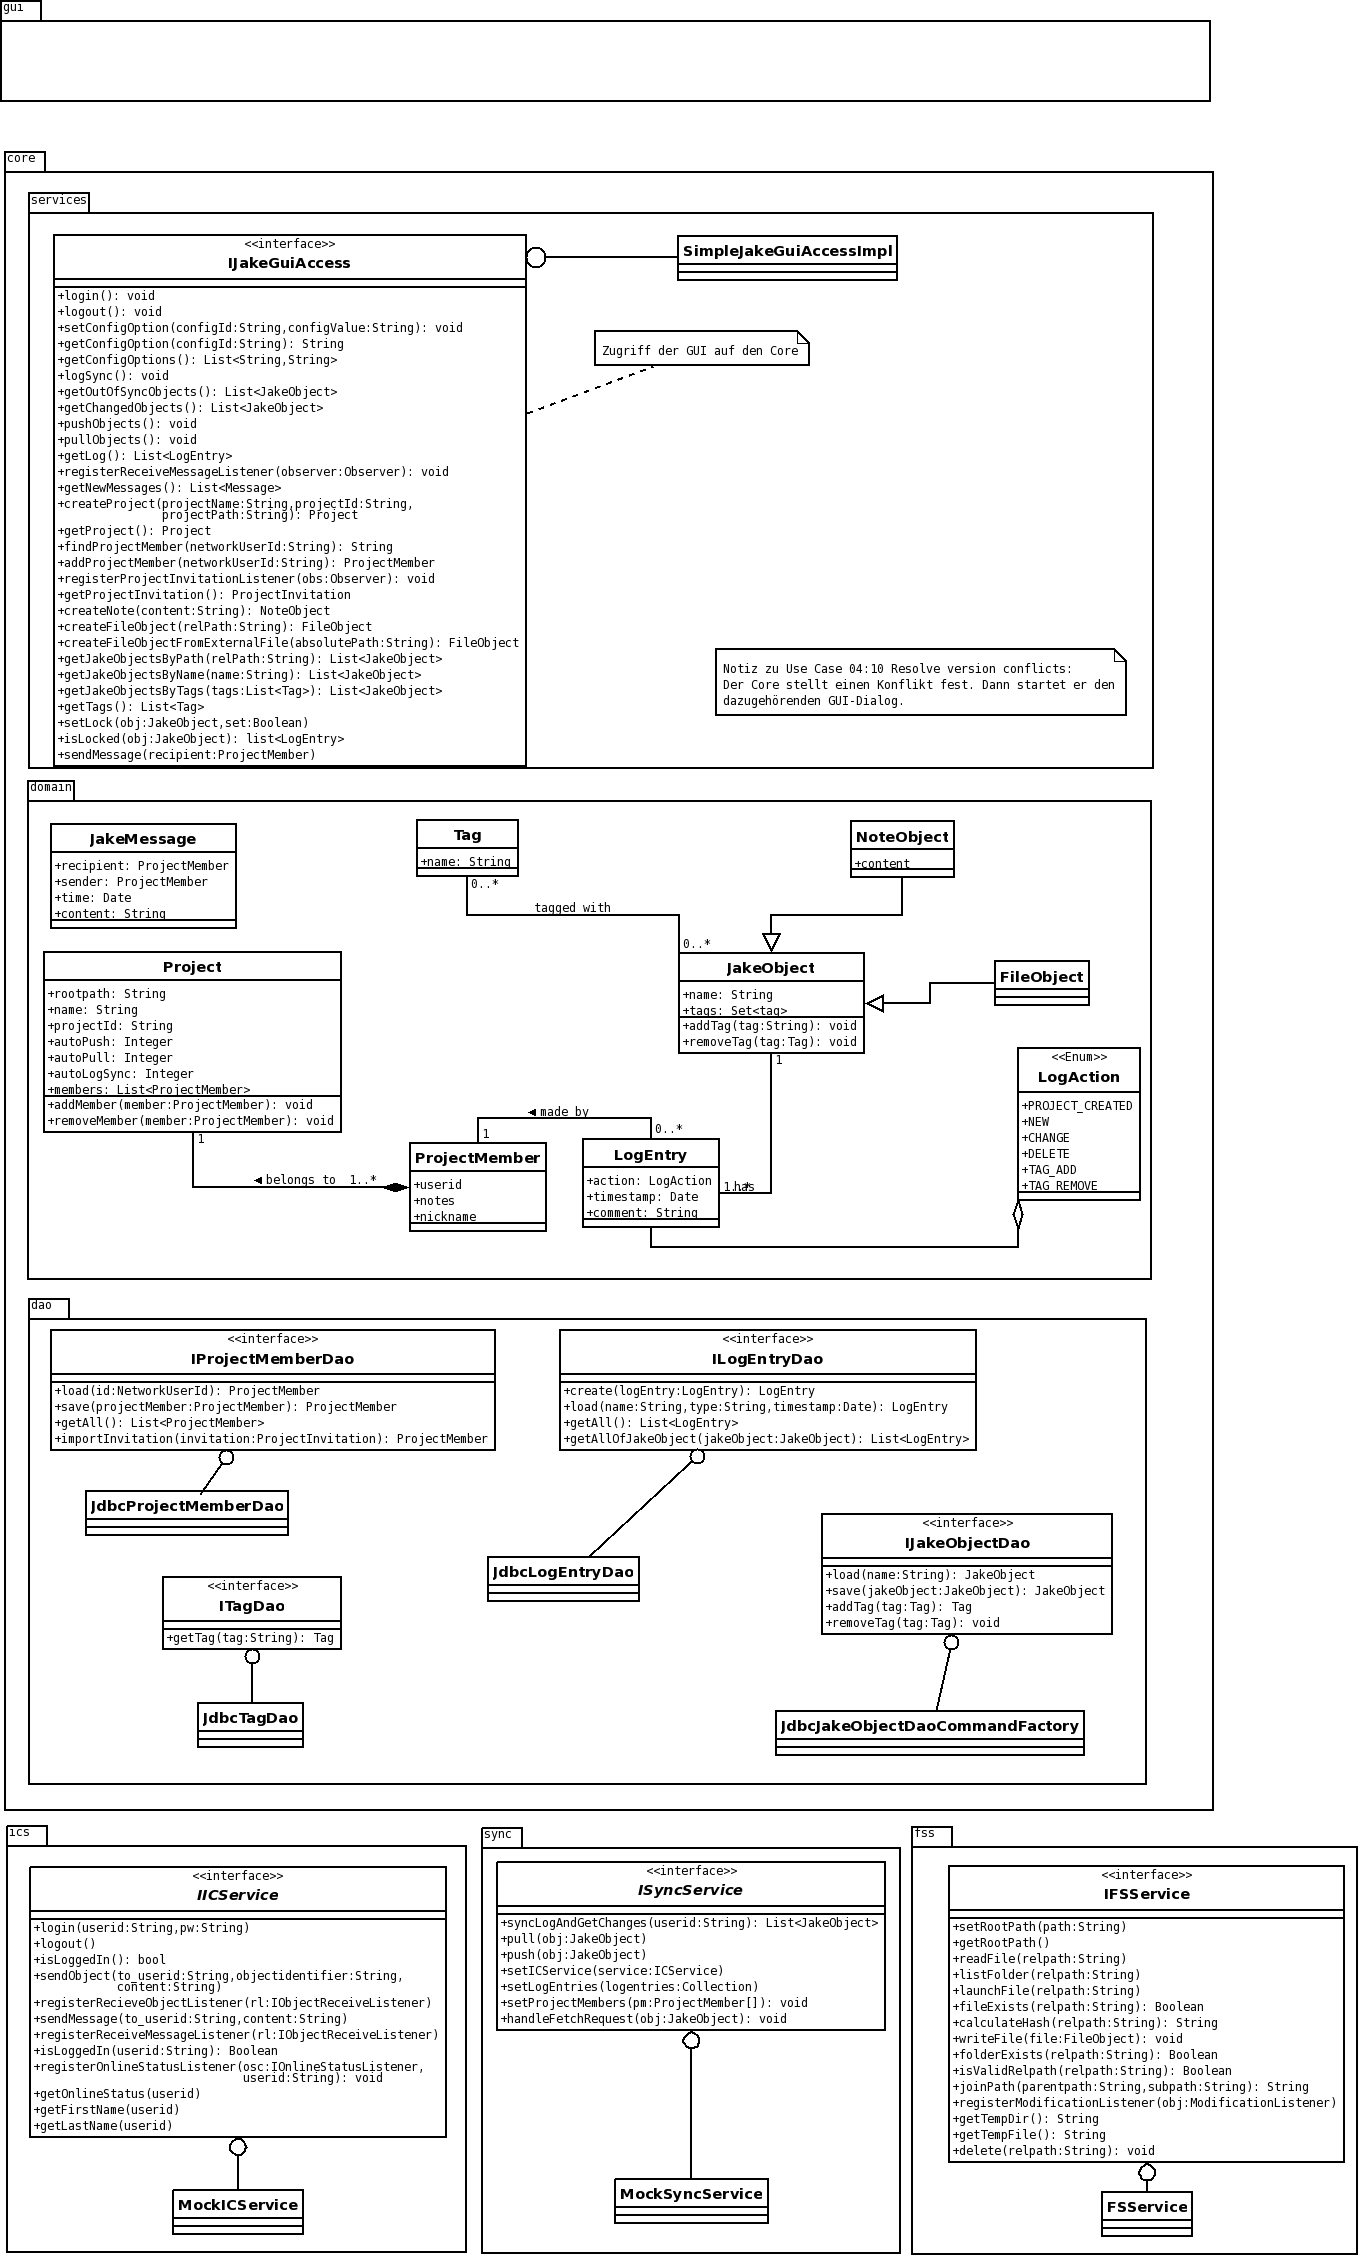
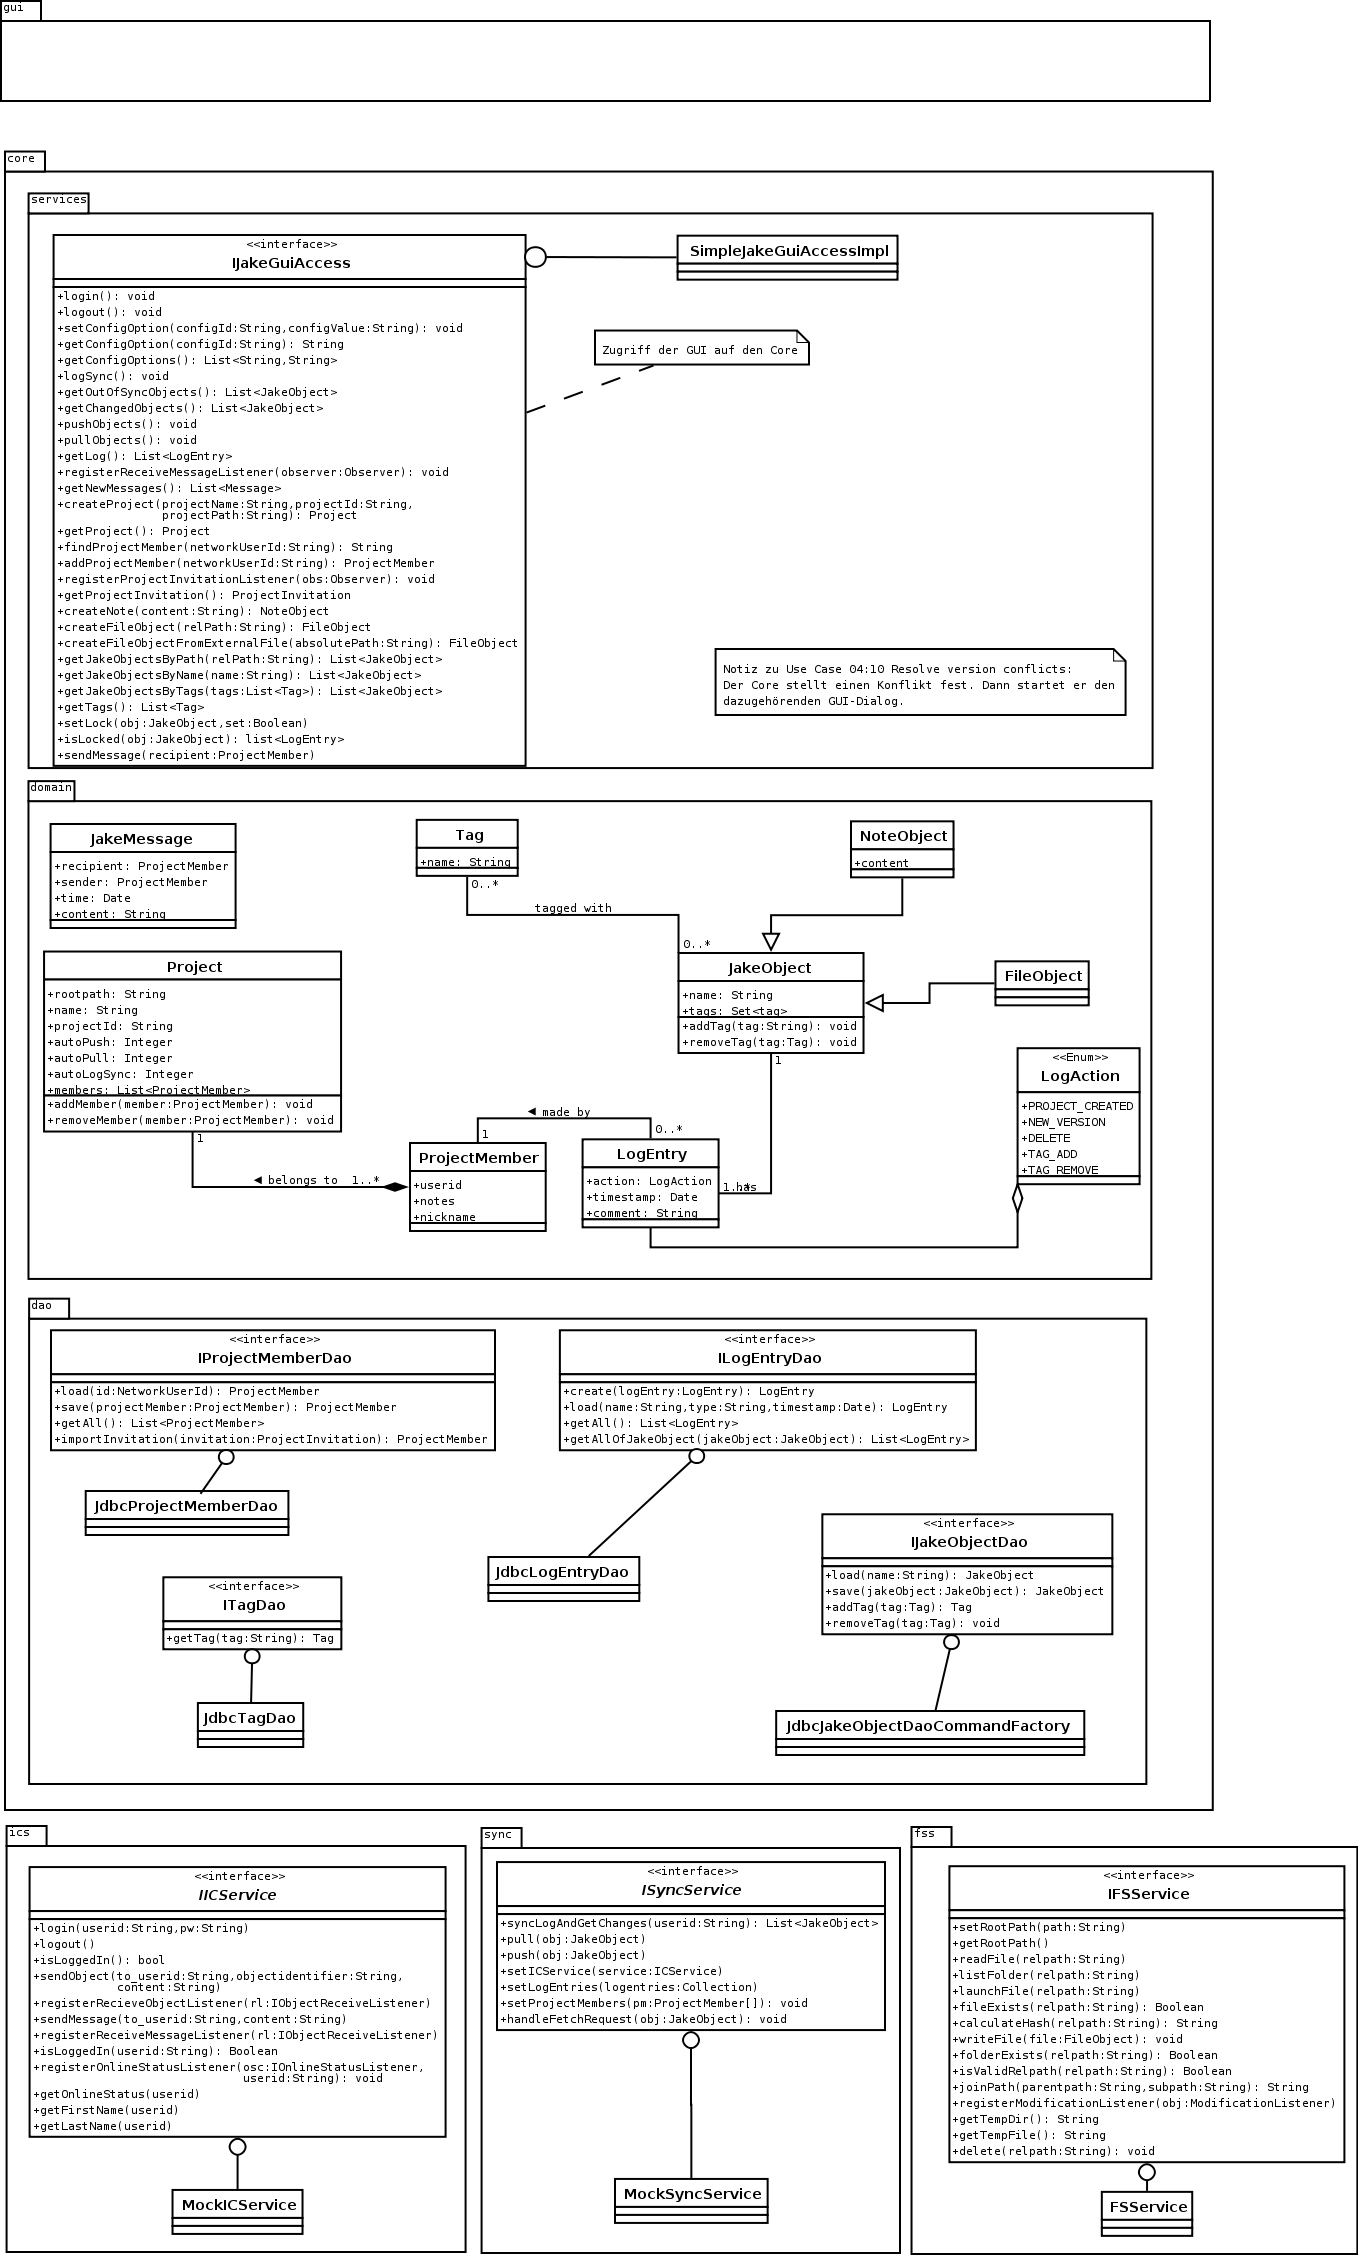
LogAction NEW -> NEW_VERSION, removed CHANGED; Because: In push we cannot know (except for looking at all logentries before), if the version is a new file or just an update. It does not matter to the user if it is new or a update of the file. And if he/she wants to know -> look in the log if it is t
git-svn-id: svn://svn.jakeapp.com/trunk@326 cfed719c-3465-4289-a5de-482d64f03f8e

diff --git a/core/src/main/java/com/doublesignal/sepm/jake/core/domain/LogAction.java b/core/src/main/java/com/doublesignal/sepm/jake/core/domain/LogAction.java
@@ -2,7 +2,7 @@ package com.doublesignal.sepm.jake.core.domain;
 
 /**
  * A LogAction is intended to show the Status of a certain JakeObject/LogEntry.
- * The available status can be  <code>PROJECT_CREATED</code>,<code>NEW</code>,<code>CHANGE</code>,<code>DELETE</code>,
+ * The available status can be  <code>PROJECT_CREATED</code>,<code>NEW_VERSION</code>,<code>DELETE</code>,
  * <code>TAG_ADD</code> and <code>TAG_REMOVE</code>.
  *
  * @author Dominik, Philipp
@@ -14,7 +14,7 @@ public enum LogAction {
 	 * Create a new LogAction Enum Set.
 	 *
 	 * @param PROJECT_CREATED
-	 * @param NEW
+	 * @param NEW_VERSION
 	 * @param CHANGE
 	 * @param DELETE
 	 * @param TAG_ADD
@@ -23,16 +23,13 @@ public enum LogAction {
 
 	/**
 	 * the project was just created, 1st Logentry ever
+	 * TODO: Why do we need this?
 	 */
 	PROJECT_CREATED,
 	/**
-	 * a new JakeObject was created
+	 * a new version of a JakeObject was created
 	 */
-	NEW,
-	/**
-	 * the JakeObject in question was modified
-	 */
-	CHANGE,
+	NEW_VERSION,
 	/**
 	 * the JakeObject in question was deleted
 	 */
@@ -40,7 +37,7 @@ public enum LogAction {
 	/**
 	 * the tag in the comment field of the Logentry was added to the JakeObject in question
 	 */
-	TAGA_DD,
+	TAG_ADD,
 	/**
 	 * the tag in the comment field of the LogEntry was removed from the JakeObject in question
 	 */
